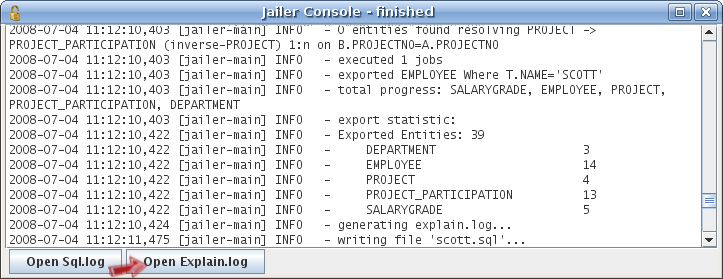
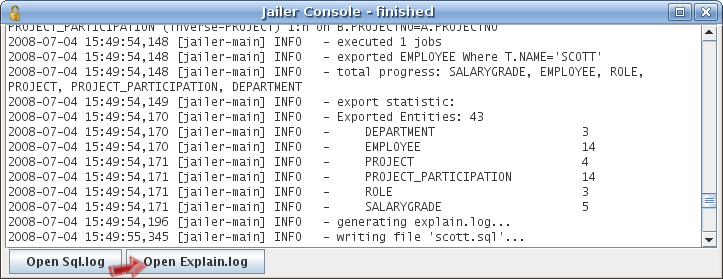
extended demo model

diff --git a/doc/web/exporting-data.htm b/doc/web/exporting-data.htm
@@ -171,7 +171,7 @@ You may change the setting name if you like.<br>
 Click on<span style="font-style: italic;"> Connect</span><big
  style="font-style: italic;"><span style="font-family: monospace;"></span></big><span
  style="font-style: italic;">.</span>
-Jailer finds four tables and two associations:<br>
+Jailer finds six tables and four associations:<br>
             <br>
             <img src="exporting-data-Dateien/screen3.png"><br>
             <br>
@@ -239,7 +239,7 @@ Jailer has generated a file <a href="scott.sql.html"><img
  style="font-family: monospace;"><font size="4">scott.sql</font></span></big></a>
 containing <big><span style="font-family: monospace;"><font size="4">Insert</font></span></big>-statements
 for Scott, for his boss, for the president and for scott's
-department and salary-grade.<br>
+department, salary-grade and project participations.<br>
             <br>
 But why are there also statements for all other employees?<br>
             <br>
@@ -254,7 +254,9 @@ Open the <span style="font-family: monospace;">Explain.log</span>:<br>
             <br>
             <img src="exporting-data-Dateien/screen12.png"><br>
             <br>
-Scotts is Adams boss and James and Adams are both classified in the
+The data of Adams and James, for example, has been exported, because
+Scott (7788) is Adams (7876) boss and James (7900) and Adams are both
+classified in the
 same salary-grade.<br>
             <br>
             <h4>Step 4. Export employee Scott (restricted)<br>
@@ -267,32 +269,38 @@ prevents us from excluding
 the salary-grade and the bonus from export, but we don't do that
 becauses the
 resulting set would be incomplete.<br>
-            <p> To exclude
-subordinates, 'same department'-members and 'same
-salary-grade'-employees, we must disable some associations. To do so,
-define some <span style="font-style: italic;">restrictions:<br>
-            </span></p>
-            <ul>
-              <li>from DEPARTMENT to EMPLOYEE</li>
-              <li>from EMPLOYEE to EMPLOYEE (inverse-BOSS)</li>
-              <li>from SALARYGRADE to EMPLOYEE<br>
-              </li>
-            </ul>
-            <p> <br>
-            <img src="exporting-data-Dateien/screen13.png"><br>
-            <br>
-            <br>
-The <span style="font-style: italic;">restriction-condition</span> is
+            <p>On the other hand, we don't want to export all
+subordinates of an employee, or all employees who works in the same
+department as Scott.<br>
+            </p>
+            <p>To exclude
+subordinates, department-members and 'same
+salary-grade'-employees, we must <span style="font-style: italic;">restrict</span>
+some associations.<span style="font-style: italic;"><br>
+            </span><br>
+A <span style="font-style: italic;">restriction</span> is
 an extension of the associations join-condition (in
 SQL-syntax) for one direction of an association. <span
  style="font-style: italic;">disabled</span> (or <span
  style="font-style: italic;">false</span>) stands for an unsatisfiable
 condition.<br>
+            </p>
+            <p>Define restrictions:<br>
+            </p>
+            <ul>
+              <li>from DEPARTMENT to EMPLOYEE</li>
+              <li>from EMPLOYEE to EMPLOYEE (inverse-BOSS)</li>
+              <li>from SALARYGRADE to EMPLOYEE</li>
+              <li>from PROJECT to PROJECT_PARTICIPATION</li>
+              <li>from ROLE to PROJECT_PARTICIPATION</li>
+            </ul>
+            <p> <br>
+            <img src="exporting-data-Dateien/screen13.png"><br>
             <br>
             <br>
             <span style="font-style: italic;"></span>Use <span
- style="font-style: italic;">Tools-&gt;Export Data</span> again and
-look what Jailer now exports:<br>
+ style="font-style: italic;">Tools-&gt;Export Data</span> again. Jailer
+will now export only the data related to Scott.<br>
             <br>
             <table
  style="background-color: rgb(51, 102, 255); text-align: left;"
@@ -315,14 +323,14 @@ look what Jailer now exports:<br>
                   <td
  style="vertical-align: top; background-color: rgb(202, 225, 235);"
  colspan="2"><span style="font-family: monospace;">-- generated by
-Jailer at Fri May 02 12:38:33 CEST 2008&nbsp; from wisser@desktop<br>
+Jailer at Sat May 03 12:38:33 CEST 2008&nbsp; from wisser@desktop<br>
 --<br>
 -- extraction model:&nbsp; EMPLOYEE where NAME='SCOTT'
 (extractionmodel/scott.csv)<br>
 -- database URL:&nbsp;&nbsp;&nbsp;&nbsp;&nbsp;
 jdbc:db2://localhost/wisser<br>
 -- database user:&nbsp;&nbsp;&nbsp;&nbsp; scott<br>
--- exported entities: 7<br>
+-- Exported Entities: 13<br>
 --&nbsp;&nbsp;&nbsp;&nbsp;
 DEPARTMENT&nbsp;&nbsp;&nbsp;&nbsp;&nbsp;&nbsp;&nbsp;&nbsp;&nbsp;&nbsp;&nbsp;&nbsp;&nbsp;&nbsp;&nbsp;&nbsp;&nbsp;&nbsp;&nbsp;&nbsp;
 2<br>
@@ -330,29 +338,44 @@ DEPARTMENT&nbsp;&nbsp;&nbsp;&nbsp;&nbsp;&nbsp;&nbsp;&nbsp;&nbsp;&nbsp;&nbsp;&nbs
 EMPLOYEE&nbsp;&nbsp;&nbsp;&nbsp;&nbsp;&nbsp;&nbsp;&nbsp;&nbsp;&nbsp;&nbsp;&nbsp;&nbsp;&nbsp;&nbsp;&nbsp;&nbsp;&nbsp;&nbsp;&nbsp;&nbsp;&nbsp;
 3<br>
 --&nbsp;&nbsp;&nbsp;&nbsp;
+PROJECT&nbsp;&nbsp;&nbsp;&nbsp;&nbsp;&nbsp;&nbsp;&nbsp;&nbsp;&nbsp;&nbsp;&nbsp;&nbsp;&nbsp;&nbsp;&nbsp;&nbsp;&nbsp;&nbsp;&nbsp;&nbsp;&nbsp;&nbsp;
+2<br>
+--&nbsp;&nbsp;&nbsp;&nbsp;
+PROJECT_PARTICIPATION&nbsp;&nbsp;&nbsp;&nbsp;&nbsp;&nbsp;&nbsp;&nbsp;&nbsp;
+2<br>
+--&nbsp;&nbsp;&nbsp;&nbsp;
+ROLE&nbsp;&nbsp;&nbsp;&nbsp;&nbsp;&nbsp;&nbsp;&nbsp;&nbsp;&nbsp;&nbsp;&nbsp;&nbsp;&nbsp;&nbsp;&nbsp;&nbsp;&nbsp;&nbsp;&nbsp;&nbsp;&nbsp;&nbsp;&nbsp;&nbsp;&nbsp;
+2<br>
+--&nbsp;&nbsp;&nbsp;&nbsp;
 SALARYGRADE&nbsp;&nbsp;&nbsp;&nbsp;&nbsp;&nbsp;&nbsp;&nbsp;&nbsp;&nbsp;&nbsp;&nbsp;&nbsp;&nbsp;&nbsp;&nbsp;&nbsp;&nbsp;&nbsp;
 2<br>
                   <br>
                   <br>
                   <br>
-Insert into DEPARTMENT(DEPTNO, NAME, LOCATION) values (20, 'RESEARCH',
-'DALLAS'), (10, 'ACCOUNTING', 'NEW YORK');<br>
 Insert into SALARYGRADE(GRADE, LOSAL, HISAL) values (4, 2001, 3000),
 (5, 3001, 9999);<br>
-Insert
-into EMPLOYEE(EMPNO, NAME, JOB, BOSS, HIREDATE, SALARY, COMM, DEPTNO) <br>
-&nbsp; &nbsp; &nbsp; values (7839, 'KING', 'PRESIDENT', null,
-'1981-11-17', 5000.00, null,
-10);<br>
-Insert into EMPLOYEE(EMPNO, NAME, JOB, BOSS, HIREDATE, SALARY,
-COMM, DEPTNO) <br>
-&nbsp;&nbsp;&nbsp;&nbsp;&nbsp; values (7566, 'JONES', 'MANAGER', 7839,
-'1981-04-02',
-2975.00, null, 20);<br>
-Insert into EMPLOYEE(EMPNO, NAME, JOB, BOSS,
-HIREDATE, SALARY, COMM, DEPTNO)<br>
-&nbsp; &nbsp; &nbsp; values (7788, 'SCOTT', 'ANALYST', 7566,
-'1982-12-09', 3000.00, null, 20);<br>
+Insert into ROLE(ROLE_ID, DESCRIPTION) values (100, 'Developer'), (102,
+'Project manager');<br>
+Insert into PROJECT(PROJECTNO, DESCRIPTION, START_DATE, END_DATE)
+values (1001, 'Development of Novel Magnetic Suspension System',
+'2006-01-01', '2007-08-13'), (1003, 'Foundation of Quantum Technology',
+'2007-02-24', '2008-07-31');<br>
+Insert into DEPARTMENT(DEPTNO, NAME, LOCATION) values (20, 'RESEARCH',
+'DALLAS'), (10, 'ACCOUNTING', 'NEW YORK');<br>
+Insert into EMPLOYEE(EMPNO, NAME, JOB, BOSS, HIREDATE, SALARY, COMM,
+DEPTNO) values (7839, 'KING', 'PRESIDENT', null, '1981-11-17', 5000.00,
+null, 10);<br>
+Insert into EMPLOYEE(EMPNO, NAME, JOB, BOSS, HIREDATE, SALARY, COMM,
+DEPTNO) values (7566, 'JONES', 'MANAGER', 7839, '1981-04-02', 2975.00,
+null, 20);<br>
+Insert into EMPLOYEE(EMPNO, NAME, JOB, BOSS, HIREDATE, SALARY, COMM,
+DEPTNO) values (7788, 'SCOTT', 'ANALYST', 7566, '1982-12-09', 3000.00,
+null, 20);<br>
+Insert into PROJECT_PARTICIPATION(PROJECTNO, EMPNO, START_DATE,
+END_DATE, ROLE_ID) values (1003, 7566, '2007-02-24', '2008-07-31', 102);<br>
+Insert into PROJECT_PARTICIPATION(PROJECTNO, EMPNO, START_DATE,
+END_DATE, ROLE_ID) values (1001, 7788, '2006-05-15', '2006-11-01', 100);<br>
+                  <br>
                   </span></td>
                 </tr>
               </tbody>

diff --git a/doc/web/scott.sql.html b/doc/web/scott.sql.html
@@ -34,7 +34,7 @@
 jdbc:db2://localhost/wisser<br>
 -- database user:&nbsp;&nbsp;&nbsp;&nbsp; scott</span><span
  style="font-family: monospace;"><br>
--- Exported Entities: 39<br>
+-- Exported Entities: 43<br>
 --&nbsp;&nbsp;&nbsp;&nbsp;
 DEPARTMENT&nbsp;&nbsp;&nbsp;&nbsp;&nbsp;&nbsp;&nbsp;&nbsp;&nbsp;&nbsp;&nbsp;&nbsp;&nbsp;&nbsp;&nbsp;&nbsp;&nbsp;&nbsp;&nbsp;&nbsp;
 3<br>
@@ -46,24 +46,28 @@ PROJECT&nbsp;&nbsp;&nbsp;&nbsp;&nbsp;&nbsp;&nbsp;&nbsp;&nbsp;&nbsp;&nbsp;&nbsp;&
 4<br>
 --&nbsp;&nbsp;&nbsp;&nbsp;
 PROJECT_PARTICIPATION&nbsp;&nbsp;&nbsp;&nbsp;&nbsp;&nbsp;&nbsp;&nbsp;&nbsp;
-13<br>
+14<br>
+--&nbsp;&nbsp;&nbsp;&nbsp;
+ROLE&nbsp;&nbsp;&nbsp;&nbsp;&nbsp;&nbsp;&nbsp;&nbsp;&nbsp;&nbsp;&nbsp;&nbsp;&nbsp;&nbsp;&nbsp;&nbsp;&nbsp;&nbsp;&nbsp;&nbsp;&nbsp;&nbsp;&nbsp;&nbsp;&nbsp;&nbsp;
+3<br>
 --&nbsp;&nbsp;&nbsp;&nbsp;
 SALARYGRADE&nbsp;&nbsp;&nbsp;&nbsp;&nbsp;&nbsp;&nbsp;&nbsp;&nbsp;&nbsp;&nbsp;&nbsp;&nbsp;&nbsp;&nbsp;&nbsp;&nbsp;&nbsp;&nbsp;
 5<br>
       <br>
       <br>
       <br>
-Insert into SALARYGRADE(GRADE, LOSAL, HISAL) values (1, 700, 1200), (2,
-1201, 1400), (3, 1401, 2000), (4, 2001, 3000), (5, 3001, 9999);<br>
+Insert into SALARYGRADE(GRADE, LOSAL, HISAL) values (4, 2001, 3000),
+(1, 700, 1200), (5, 3001, 9999), (2, 1201, 1400), (3, 1401, 2000);<br>
+Insert into ROLE(ROLE_ID, DESCRIPTION) values (100, 'Developer'), (102,
+'Project manager'), (101, 'Researcher');<br>
 Insert into PROJECT(PROJECTNO, DESCRIPTION, START_DATE, END_DATE)
 values (1001, 'Development of Novel Magnetic Suspension System',
 '2006-01-01', '2007-08-13'), (1002, 'Research on thermofluid dynamics
 in Microdroplets', '2006-08-22', '2007-03-20'), (1003, 'Foundation of
 Quantum Technology', '2007-02-24', '2008-07-31'), (1004, 'High capacity
 optical network', '2008-01-01', null);<br>
-Insert into DEPARTMENT(DEPTNO, NAME, LOCATION) values (10,
-'ACCOUNTING', 'NEW YORK'), (20, 'RESEARCH', 'DALLAS'), (30, 'SALES',
-'CHICAGO');<br>
+Insert into DEPARTMENT(DEPTNO, NAME, LOCATION) values (20, 'RESEARCH',
+'DALLAS'), (10, 'ACCOUNTING', 'NEW YORK'), (30, 'SALES', 'CHICAGO');<br>
 Insert into EMPLOYEE(EMPNO, NAME, JOB, BOSS, HIREDATE, SALARY, COMM,
 DEPTNO) values (7839, 'KING', 'PRESIDENT', null, '1981-11-17', 5000.00,
 null, 10);<br>
@@ -73,31 +77,32 @@ null, 20), (7698, 'BLAKE', 'MANAGER', 7839, '1981-05-01', 2850.00,
 null, 30), (7782, 'CLARK', 'MANAGER', 7839, '1981-06-09', 2450.00,
 null, 10);<br>
 Insert into EMPLOYEE(EMPNO, NAME, JOB, BOSS, HIREDATE, SALARY, COMM,
-DEPTNO) values (7499, 'ALLEN', 'SALESMAN', 7698, '1981-02-20', 1600.00,
-300.00, 30), (7521, 'WARD', 'SALESMAN', 7698, '1981-02-22', 1250.00,
-500.00, 30), (7654, 'MARTIN', 'SALESMAN', 7698, '1981-09-28', 1250.00,
-1400.00, 30), (7788, 'SCOTT', 'ANALYST', 7566, '1982-12-09', 3000.00,
-null, 20), (7844, 'TURNER', 'SALESMAN', 7698, '1981-09-08', 1500.00,
-0.00, 30), (7900, 'JAMES', 'CLERK', 7698, '1981-12-03', 950.00, null,
-30), (7902, 'FORD', 'ANALYST', 7566, '1981-12-03', 3000.00, null, 20),
+DEPTNO) values (7788, 'SCOTT', 'ANALYST', 7566, '1982-12-09', 3000.00,
+null, 20), (7902, 'FORD', 'ANALYST', 7566, '1981-12-03', 3000.00, null,
+20), (7900, 'JAMES', 'CLERK', 7698, '1981-12-03', 950.00, null, 30),
+(7499, 'ALLEN', 'SALESMAN', 7698, '1981-02-20', 1600.00, 300.00, 30),
+(7521, 'WARD', 'SALESMAN', 7698, '1981-02-22', 1250.00, 500.00, 30),
+(7654, 'MARTIN', 'SALESMAN', 7698, '1981-09-28', 1250.00, 1400.00, 30),
+(7844, 'TURNER', 'SALESMAN', 7698, '1981-09-08', 1500.00, 0.00, 30),
 (7934, 'MILLER', 'CLERK', 7782, '1982-01-23', 1300.00, null, 10);<br>
 Insert into PROJECT_PARTICIPATION(PROJECTNO, EMPNO, START_DATE,
-END_DATE) values (1002, 7782, '2006-08-22', '2007-03-20'), (1003, 7566,
-'2007-02-24', '2008-07-31');<br>
+END_DATE, ROLE_ID) values (1003, 7566, '2007-02-24', '2008-07-31',
+102), (1002, 7782, '2006-08-22', '2007-03-20', 101);<br>
 Insert into EMPLOYEE(EMPNO, NAME, JOB, BOSS, HIREDATE, SALARY, COMM,
-DEPTNO) values (7369, 'SMITH', 'CLERK', 7902, '1980-12-17', 800.00,
-null, 20), (7876, 'ADAMS', 'CLERK', 7788, '1983-01-12', 1100.00, null,
+DEPTNO) values (7876, 'ADAMS', 'CLERK', 7788, '1983-01-12', 1100.00,
+null, 20), (7369, 'SMITH', 'CLERK', 7902, '1980-12-17', 800.00, null,
 20);<br>
 Insert into PROJECT_PARTICIPATION(PROJECTNO, EMPNO, START_DATE,
-END_DATE) values (1001, 7788, '2006-05-15', '2006-11-01'), (1001, 7902,
-'2006-01-01', '2006-12-30'), (1002, 7934, '2007-01-01', '2007-03-20'),
-(1003, 7900, '2007-02-24', '2007-01-31'), (1004, 7499, '2008-01-01',
-null), (1004, 7521, '2008-05-01', null), (1004, 7654, '2008-04-15',
-null), (1004, 7844, '2008-02-01', null), (1004, 7900, '2008-03-01',
-'2008-04-01');<br>
+END_DATE, ROLE_ID) values (1001, 7788, '2006-05-15', '2006-11-01',
+100), (1001, 7902, '2006-01-01', '2006-12-30', 102), (1002, 7934,
+'2007-01-01', '2007-03-20', 101), (1003, 7900, '2007-02-24',
+'2007-01-31', 101), (1004, 7499, '2008-01-01', null, 102), (1004, 7521,
+'2008-05-01', null, 101), (1004, 7654, '2008-04-15', null, 101), (1004,
+7844, '2008-02-01', null, 101), (1004, 7900, '2008-03-01',
+'2008-04-01', 101), (1004, 7900, '2008-05-20', null, 101);<br>
 Insert into PROJECT_PARTICIPATION(PROJECTNO, EMPNO, START_DATE,
-END_DATE) values (1001, 7369, '2006-01-01', '2007-08-13'), (1002, 7876,
-'2006-08-22', '2007-03-20');<br>
+END_DATE, ROLE_ID) values (1002, 7876, '2006-08-22', '2007-03-20',
+102), (1001, 7369, '2006-01-01', '2007-08-13', 100);<br>
       <br>
       </span></td>
     </tr>
